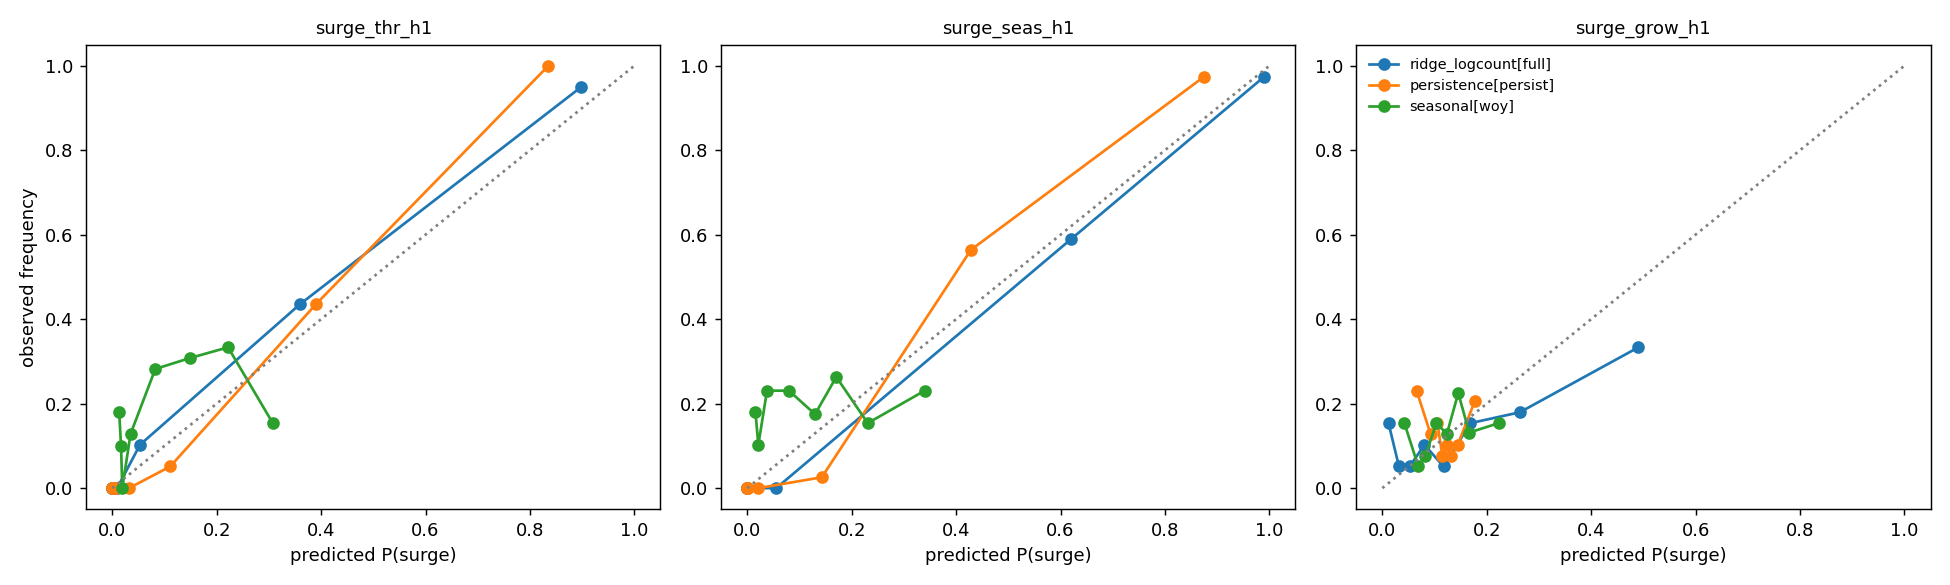
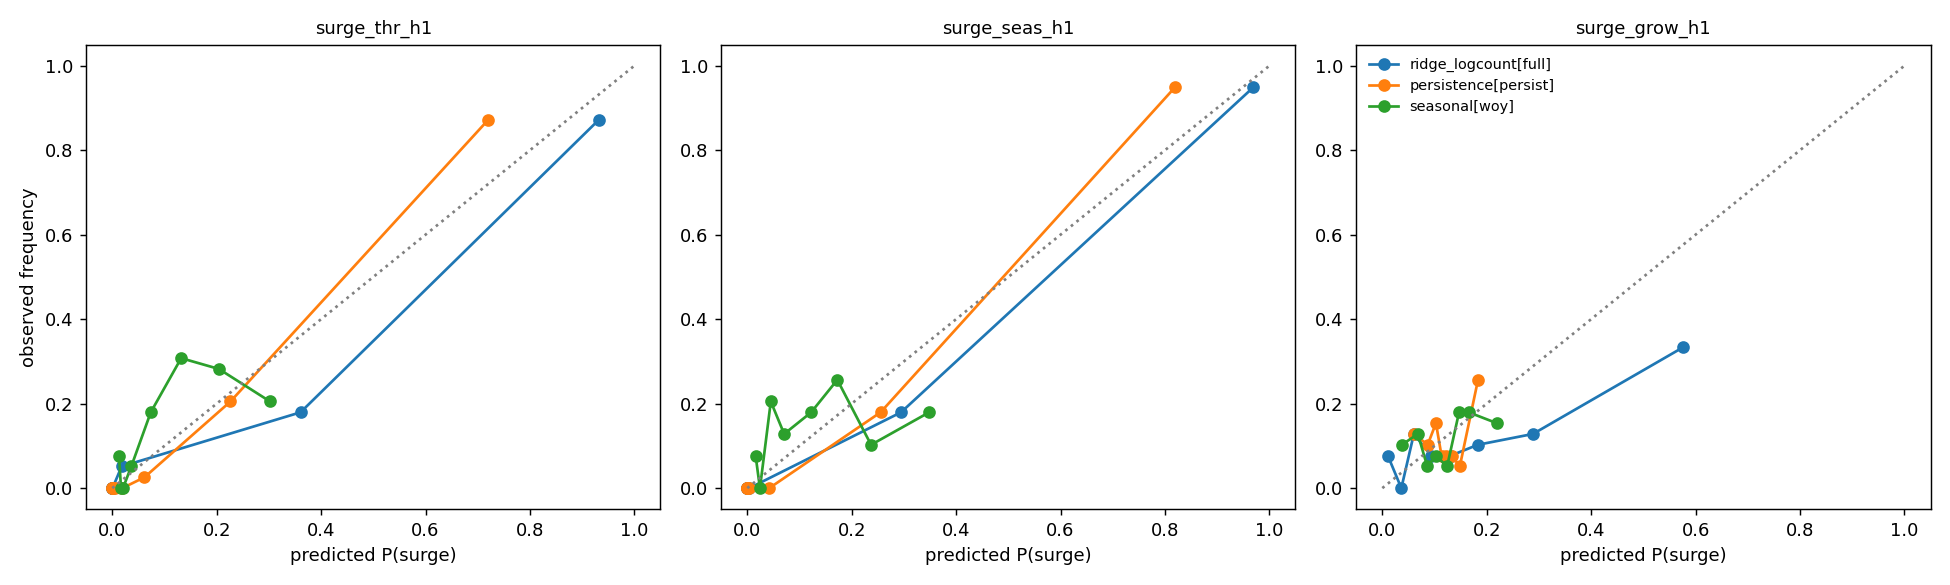
visualize: development/2022 figures

diff --git a/Sem2/StatisticalLearning/GroupProject/DengueSurgeWarning/visualize/make_visuals.py b/Sem2/StatisticalLearning/GroupProject/DengueSurgeWarning/visualize/make_visuals.py
@@ -4,6 +4,7 @@ Run after `python run.py all`:
     pipeline/.venv/bin/python visualize/make_visuals.py
 """
 import shutil
+import sys
 from pathlib import Path
 
 import matplotlib
@@ -26,12 +27,28 @@ H = cfg["targets"]["horizons"]
 K = cfg["targets"]["threshold"]["k"]
 Q = cfg["targets"]["seasonal"]["q"]
 FIRST_TEST = cfg["model"]["first_test_year"]
+HOLD = cfg["model"].get("holdout_from")
+DEV_END = (HOLD - 1) if HOLD else 2022
 COST = cfg["model"]["cost_ratio"]
 
-pooled = pd.read_csv(TAB / "model_cv_pooled.csv")
+pooled_all = pd.read_csv(TAB / "model_cv_pooled.csv")
+if "period" not in pooled_all:
+    pooled_all["period"] = "development"
+pooled = pooled_all[pooled_all.period == "development"].copy()
+holdout = pooled_all[pooled_all.period == "holdout"].copy()
 by_year = pd.read_csv(TAB / "model_cv_by_year.csv")
 imp = pd.read_csv(TAB / "feature_importance.csv")
-cost = pd.read_csv(TAB / "alarm_cost_tradeoff.csv")
+sys.path.insert(0, str(PIPE / "src"))
+from dengue.modeling import metrics  # noqa: E402
+
+# cost trade-off recomputed on the development period only (the holdout is not used for choices)
+oof = pd.read_csv(PIPE / "data/processed/oof_predictions.csv", parse_dates=["week_start"])
+if "period" in oof:
+    oof = oof[oof.period == "development"]
+cost = pd.DataFrame([{"target": t, "model": m, "cost_ratio": r,
+                      **metrics(g.y.values, g.prob.values, 1 / (1 + r))}
+                     for (t, m), g in oof.groupby(["target", "model"])
+                     for r in cfg["model"]["cost_ratio_grid"]])
 mt = pd.read_csv(PIPE / "data/processed/model_table.csv", parse_dates=["week_start"])
 sens_path = TAB / "delay_sensitivity.csv"
 
@@ -75,13 +92,16 @@ for a, kind, title, line in [
     if line:
         a.plot(mt.week_start, mt[line], color="#1f77b4", lw=1, ls="--", label="threshold")
     a.axvline(pd.Timestamp(f"{FIRST_TEST}-01-01"), color="0.5", ls=":")
+    if HOLD:
+        a.axvspan(pd.Timestamp(f"{HOLD}-01-01"), mt.week_start.max(), color="0.9", zorder=0)
     a.set_title(title, loc="left", fontsize=10)
     a.set_ylabel("DF cases / wk")
     a.legend(loc="upper left", fontsize=7, frameon=False, ncol=3)
 ax[3].bar(mt.week_start, mt.dhf, width=6, color="#9467bd")
 ax[3].set_ylabel("DHF / wk")
 ax[3].set_title("Dengue haemorrhagic fever (kept separate, too rare to model)", loc="left", fontsize=10)
-fig.suptitle("Singapore weekly dengue fever cases 2012–2022 and surge labels (test period after dotted line)",
+fig.suptitle("Singapore weekly dengue fever cases 2012–2022 and surge labels "
+             "(rolling-origin test after dotted line; final holdout shaded)",
              x=0.01, ha="left")
 fig.tight_layout()
 fig.savefig(FIG / "01_cases_and_surge_definitions.png")
@@ -106,7 +126,7 @@ for a, kind in zip(axes, BASE):
     a.set_title(tname(t), loc="left", fontsize=10)
     a.set_xlabel("PR-AUC (95% block-bootstrap CI)")
     a.set_xlim(0, 1)
-fig.suptitle(f"Next-week surge (h=1): out-of-sample {FIRST_TEST}–2022   "
+fig.suptitle(f"Next-week surge (h=1): out-of-sample development period {FIRST_TEST}–{DEV_END}   "
              "(dotted = no skill; red dashed = persistence; grey = baselines)", x=0.01, ha="left")
 fig.tight_layout()
 fig.savefig(FIG / "02_pr_auc_ci_h1.png")
@@ -192,6 +212,8 @@ for a, kind in zip(axes, BASE):
     for m in ["persistence[persist]", "seasonal[woy]", "logit[cases]", "lasso_logit[full]", "random_forest[full]"]:
         g = by_year[(by_year.target == t) & (by_year.model == m)]
         a.plot(g.year, g.pr_auc, marker="o", label=NICE[m], ls="--" if m in BASELINES else "-")
+    if HOLD:
+        a.axvspan(HOLD - 0.5, HOLD + 0.5, color="0.9", zorder=0)
     a.set_title(f"{tname(t)}: PR-AUC by test year", loc="left", fontsize=10)
     a.set_xlabel("year")
 axes[0].set_ylabel("PR-AUC")
@@ -235,6 +257,31 @@ if sens_path.exists():
     fig.savefig(FIG / "09_reporting_delay_sensitivity.png")
     plt.close(fig)
 
+# 12. final test (holdout): development vs holdout PR-AUC, h=1 --------------
+if len(holdout):
+    fig, axes = plt.subplots(1, 3, figsize=(14, 4.2), sharey=True)
+    for a, kind in zip(axes, BASE):
+        t = f"surge_{kind}_h1"
+        dv = pooled[pooled.target == t].set_index("model")
+        hv = holdout[holdout.target == t].set_index("model")
+        best = dv[~dv.index.isin(BASELINES)].pr_auc.idxmax()
+        ms = BASELINES + [best]
+        x = np.arange(len(ms))
+        a.bar(x - 0.2, dv.pr_auc.reindex(ms), 0.4, label=f"development {FIRST_TEST}–{DEV_END}", color="#1f77b4")
+        hb = hv.reindex(ms)
+        a.bar(x + 0.2, hb.pr_auc, 0.4, label=f"final period {HOLD} (no CI: 52 weeks = 2 bootstrap blocks)", color="#ff7f0e")
+        a.set_xticks(x, [NICE[m] for m in ms], rotation=20, ha="right", fontsize=8)
+        npos = int(hb.positives.dropna().iloc[0]) if hb.positives.notna().any() else 0
+        a.set_title(f"{tname(t)} ({HOLD} positives: {npos})", loc="left", fontsize=10)
+        a.set_ylim(0, 1)
+    axes[0].set_ylabel("PR-AUC")
+    axes[0].legend(fontsize=8, frameon=False)
+    fig.suptitle(f"Final-period check (target weeks in {HOLD}): baselines and the model chosen on the "
+                 "development period", x=0.01, ha="left")
+    fig.tight_layout()
+    fig.savefig(FIG / "12_final_test_holdout_h1.png")
+    plt.close(fig)
+
 # EDA figures worth keeping -------------------------------------------------
 for src, dst in [("eda_seasonality.png", "10a_eda_seasonality.png"),
                  ("eda_lagged_corr.png", "10b_eda_weather_lag_corr.png"),
@@ -257,6 +304,14 @@ for t in targets:
                  "p_best_beats_persistence": best.p_better_than_persistence,
                  "best_brier": best.brier, "best_recall": best.recall,
                  "best_precision": best.precision, "best_alarms_per_year": best.alarms_per_year})
+    if len(holdout):
+        ho = holdout[holdout.target == t].set_index("model")
+        if best.model in ho.index:
+            rows[-1].update({"holdout_positives": ho.loc[best.model, "positives"],
+                             "holdout_best_pr_auc": ho.loc[best.model, "pr_auc"],
+                             "holdout_persistence_pr_auc": ho.pr_auc.get("persistence[persist]", np.nan),
+                             "holdout_best_recall": ho.loc[best.model, "recall"],
+                             "holdout_best_precision": ho.loc[best.model, "precision"]})
 key = pd.DataFrame(rows).round(3)
 key.to_csv(OUT / "key_results.csv", index=False)
 print(key.to_string(index=False))

diff --git a/Sem2/StatisticalLearning/GroupProject/DengueSurgeWarning/visualize/README.md b/Sem2/StatisticalLearning/GroupProject/DengueSurgeWarning/visualize/README.md
@@ -1,66 +1,64 @@
-# Visualize: kết quả theo đề 1.1 của thầy
+# Hình và bảng tổng hợp
 
-Tạo lại (sau `cd pipeline && python run.py all`):
+Tạo hình sau khi pipeline chính chạy xong:
+
 ```bash
 pipeline/.venv/bin/python visualize/make_visuals.py
 ```
 
-## Thiết kế (bám theo đề)
-- **Chuỗi target:** Dengue Fever (DF) theo tuần, 2012–2022. DHF để riêng (dưới 1 ca/tuần, chỉ mô tả).
-- **Định nghĩa surge** (chốt trước khi fit), h = 1 là chính:
-  - **A threshold:** y[t+h] > mean + 2·sd của 52 tuần trước.
-  - **S seasonal p90:** y[t+h] > percentile thứ 90 của cùng mùa (±2.5 tuần) ở các năm trước (gợi ý của thầy).
-  - **B growth:** y[t+h] ≥ (1+pct)·y[t] và ≥ 50 ca (week-on-week rise).
-  - **A-onset / S-onset:** như A/S nhưng chỉ xét tuần mà y[t] **chưa** vượt ngưỡng, tức cảnh báo sớm thật sự.
-- **Baselines:** prior, seasonal (tỷ lệ surge lịch sử theo tuần trong năm), persistence (khoảng cách hiện tại tới ngưỡng).
-- **Mô hình:** logistic (cases / weather / cả hai), lasso logistic (chọn C bằng CV theo thời gian), CART depth 3,
-  random forest, Poisson GLM, ridge trên log counts. Hồi quy đếm được đổi thành P(surge).
-- **Validation:** rolling-origin theo tuần, expanding window, test 2017–2022, refit mỗi 4 tuần (`refit_every`),
-  purge h tuần. Báo động khi P ≥ 0.2 (bỏ lỡ một surge tốn gấp 4 lần một báo động giả).
-- **Metric:** PR-AUC kèm khoảng tin cậy 95% (block bootstrap 26 tuần), recall, precision, số báo động/năm,
-  Brier, calibration.
+Script đọc kết quả từ `pipeline/outputs/` và `pipeline/data/processed/`, sau đó ghi hình vào
+`visualize/figures/` và bảng số liệu chính vào `visualize/key_results.csv`. Hình so sánh mô hình
+chỉ dùng giai đoạn development (2016-2021). Hình holdout 2022 được tách riêng; không dùng kết
+quả holdout để chọn mô hình.
 
-## Kết quả chính (`key_results.csv`, h = 1)
-| Target | Dương tính (test) | Persistence | Mô hình tốt nhất | PR-AUC [95% CI] |
-|---|---|---|---|---|
-| A threshold | 58 | 0.96 | logistic, cases | 0.94 [0.86, 0.98] |
-| S seasonal p90 | 61 | 0.97 | ridge log counts | 0.98 [0.91, 1.00] |
-| B growth | 42 | 0.17 | ridge log counts | 0.26 [0.19, 0.42] |
-| A-onset | 8 | 0.30 | ridge log counts | 0.30 [0.06, 0.78] |
-| S-onset | 7 | 0.51 | Poisson GLM | 0.94 [0.88, 1.00] |
+## Thiết kế
 
-## Diễn giải (dùng cho phần defence)
-1. **A và S dự báo được gần như hoàn hảo, nhưng chủ yếu nhờ persistence.** Một tuần đang vượt ngưỡng thì tuần
-   sau gần như chắc chắn vẫn vượt. Không mô hình nào thắng persistence một cách rõ ràng
-   (`p_better_than_persistence` thấp, hình 02, 03).
-2. **Giá trị thật nằm ở onset:** khi dịch *chưa* vượt ngưỡng, hồi quy đếm (Poisson GLM, ridge log)
-   phát hiện các tuần chớm vượt ngưỡng S tốt hơn hẳn persistence (PR-AUC 0.94 so với 0.51 ở h = 1,
-   0.64–0.74 ở h = 2–4). **Nhưng chỉ có 7–16 ca dương tính**, nên khoảng tin cậy rất rộng.
-   Đây chính là ý "limited number of large outbreaks" trong đề.
-3. **B growth khó:** mọi mô hình chỉ đạt PR-AUC 0.2–0.33. Ở h = 2–4, seasonal baseline ngang ngửa mô hình tốt nhất.
-4. **Thời tiết đơn lẻ yếu:** gần mức prior cho A và S. Thêm thời tiết vào số ca không cải thiện A/S, chỉ giúp chút ít
-   cho B ở h = 4 và S-onset ở h = 4.
-5. **Mô hình đơn giản là đủ:** logistic trên số ca và hồi quy đếm ≥ random forest và CART.
-6. **Trễ báo cáo 1 tuần** (hình 09): PR-AUC giảm vừa phải (A: 0.94 → 0.88 với logistic cases),
-   kết luận không đổi.
-7. **Chi phí báo động giả** (hình 06): với tỷ lệ 4:1, A/S có khoảng 11–13 báo động/năm với recall ≈ 0.75–0.8.
-   Còn B cần khoảng 13–20 báo động/năm mà chỉ bắt được khoảng một nửa số surge.
+* **Dữ liệu:** DF theo tuần, Singapore, 2012-2022. DHF được giữ riêng vì số ca thấp.
+  Thời tiết gồm mưa/nhiệt độ của trạm NEA/MSS Changi S24 và độ ẩm từ Open-Meteo.
+* **Surge:** threshold A, seasonal p90 S, growth B và các biến thể onset-only A/S; horizon 1, 2,
+  4 tuần.
+* **Mô hình:** seasonal/persistence baselines; logistic, lasso logistic, CART, random forest,
+  Poisson GLM và ridge log-count.
+* **Đánh giá:** rolling-origin theo tuần, development 2016-2021, holdout cuối kỳ 2022; PR-AUC,
+  recall, precision, calibration/Brier và số báo động mỗi năm. CI PR-AUC dùng bootstrap theo
+  block 26 tuần.
 
-## Danh sách hình (`figures/`)
+## Kết quả chính (h = 1, `key_results.csv`)
+
+| Target | Dương tính dev | Persistence | Mô hình tốt nhất (dev) | PR-AUC [95% CI] | 2022: dương tính, persistence / mô hình |
+|---|---|---|---|---|---|
+| A threshold | 43 | 0.93 | Poisson GLM | 0.93 [0.78, 0.98] | 20, 0.98 / 0.97 |
+| S seasonal | 44 | 0.97 | ridge log-count | 0.98 [0.77, 1.00] | 27, 0.98 / 0.97 |
+| G growth | 36 | 0.17 | ridge log-count | 0.26 [0.15, 0.40] | 8, 0.14 / 0.31 |
+| A-onset | 7 | 0.30 | Poisson GLM | 0.32 [0.04, 0.80] | 2, 0.42 / 0.23 |
+| S-onset | 5 | 0.26 | ridge log-count | 0.89 [0.70, 1.00] | 2, 0.58 / 1.00 |
+
+Diễn giải:
+
+1. Với A và S, persistence đã đạt PR-AUC khoảng 0.93–0.97, không mô hình nào thắng rõ. Đây là
+   nhận biết tình hình hiện tại, chưa phải cảnh báo sớm.
+2. Hồi quy đếm (count regression) có ích cho growth và S-onset, nhưng S-onset chỉ có 5 sự kiện.
+3. Thời tiết đơn lẻ yếu (0.34 / 0.16 / 0.13, gần base rate). Thêm thời tiết vào số ca cũng không
+   cải thiện.
+4. Ví dụ dự báo sai (failure case): ở mốc 2022-07-04, mô hình báo động (P = 0.52, dự báo 1.383 ca),
+   nhưng thực tế chỉ có 918 ca vì dịch đã đạt đỉnh.
+
+## Các hình đầu ra
+
 | File | Nội dung |
 |---|---|
-| 01_cases_and_surge_definitions.png | Chuỗi DF + 3 định nghĩa surge + onset (vòng đen) + DHF |
-| 02_pr_auc_ci_h1.png | PR-AUC kèm CI, h = 1, so với persistence và no-skill |
-| 03_pr_auc_vs_persistence_all_targets.png | Heatmap PR-AUC và mức hơn/kém persistence, mọi target |
-| 04_pr_auc_by_horizon.png | PR-AUC theo horizon cho từng định nghĩa |
-| 05_calibration_h1.png | Reliability diagram (mô hình tốt nhất, persistence, seasonal) |
-| 06_alarm_tradeoff_h1.png | Recall và số báo động/năm theo tỷ lệ chi phí 1:1 → 9:1 |
-| 07_pr_auc_by_year_h1.png | Độ ổn định theo năm test (2020: serotype DENV-3) |
-| 08_top_features_h1.png | Biến quan trọng (lasso, RF) |
-| 09_reporting_delay_sensitivity.png | Độ nhạy khi trễ báo cáo 1 tuần |
-| 10a–c_eda_*.png | Mùa vụ, tương quan có độ trễ với thời tiết |
-| 11_model_best_*_h1.png | Xác suất dự báo out-of-sample của mô hình tốt nhất |
+| `01_cases_and_surge_definitions.png` | Chuỗi DF, định nghĩa surge và DHF riêng |
+| `02_pr_auc_ci_h1.png` | PR-AUC development cùng CI, horizon 1 |
+| `03_pr_auc_vs_persistence_all_targets.png` | So sánh PR-AUC và persistence trên mọi target |
+| `04_pr_auc_by_horizon.png` | PR-AUC theo horizon |
+| `05_calibration_h1.png` | Calibration của các mô hình development |
+| `06_alarm_tradeoff_h1.png` | Recall so với số báo động/năm theo cost ratio |
+| `07_pr_auc_by_year_h1.png` | Mức ổn định theo năm; 2022 được đánh dấu riêng |
+| `08_top_features_h1.png` | Hệ số lasso và mức quan trọng RF |
+| `09_reporting_delay_sensitivity.png` | Nhạy cảm với giả định trễ báo cáo 1 tuần |
+| `10a-c_eda_*.png` | Mùa vụ, tương quan trễ, ca bệnh-thời tiết |
+| `11_model_best_*_h1.png` | Xác suất dự báo theo thời gian của mô hình tốt nhất trên development |
+| `12_final_test_holdout_h1.png` | Mô hình được chọn trên development so với baselines ở 2022 |
 
-## Việc còn lại
-- Chạy phân tích chính trên dataset MOH 2014–2018 + thời tiết NEA (đề yêu cầu); 2012–2022 làm robustness.
-- Chạy bản cuối với `refit_every: 1` (khoảng 30 phút).
+Diễn giải kết quả, số liệu CI, giới hạn và cảnh báo về việc đã xem các exploratory run đến
+2022 cần được đọc cùng báo cáo chính; không suy luận hiệu quả triển khai chỉ từ các hình.
